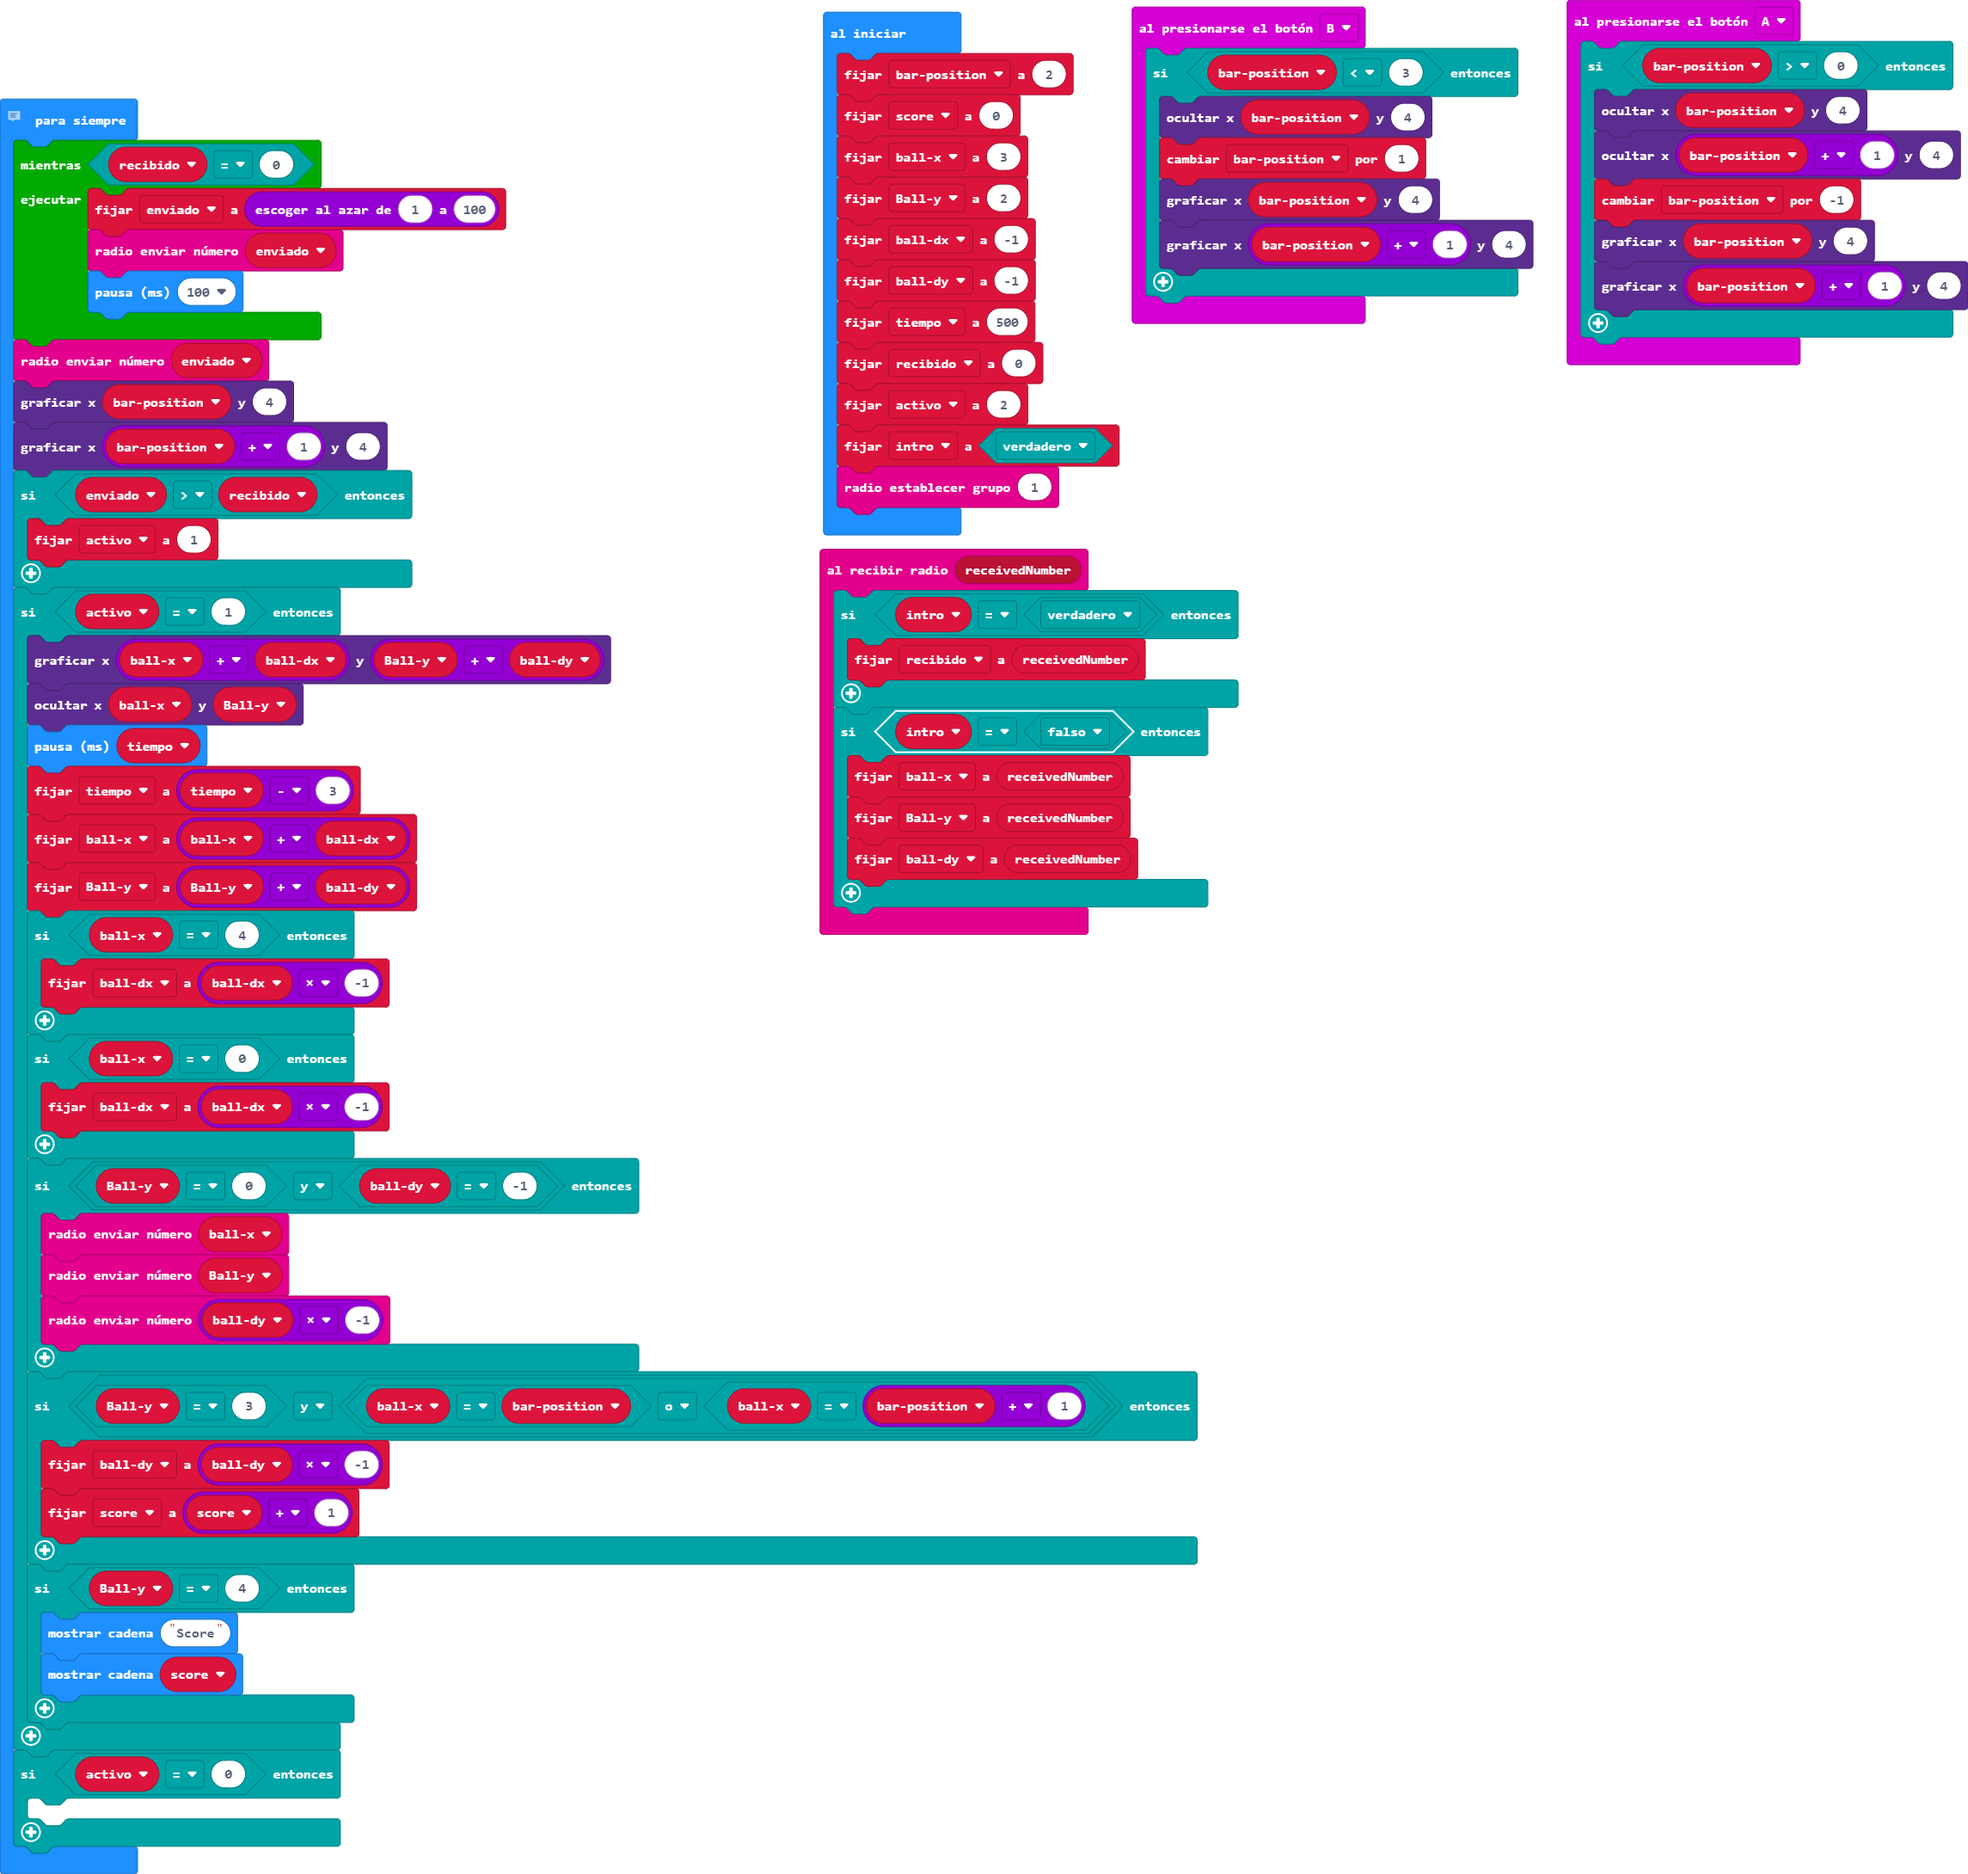
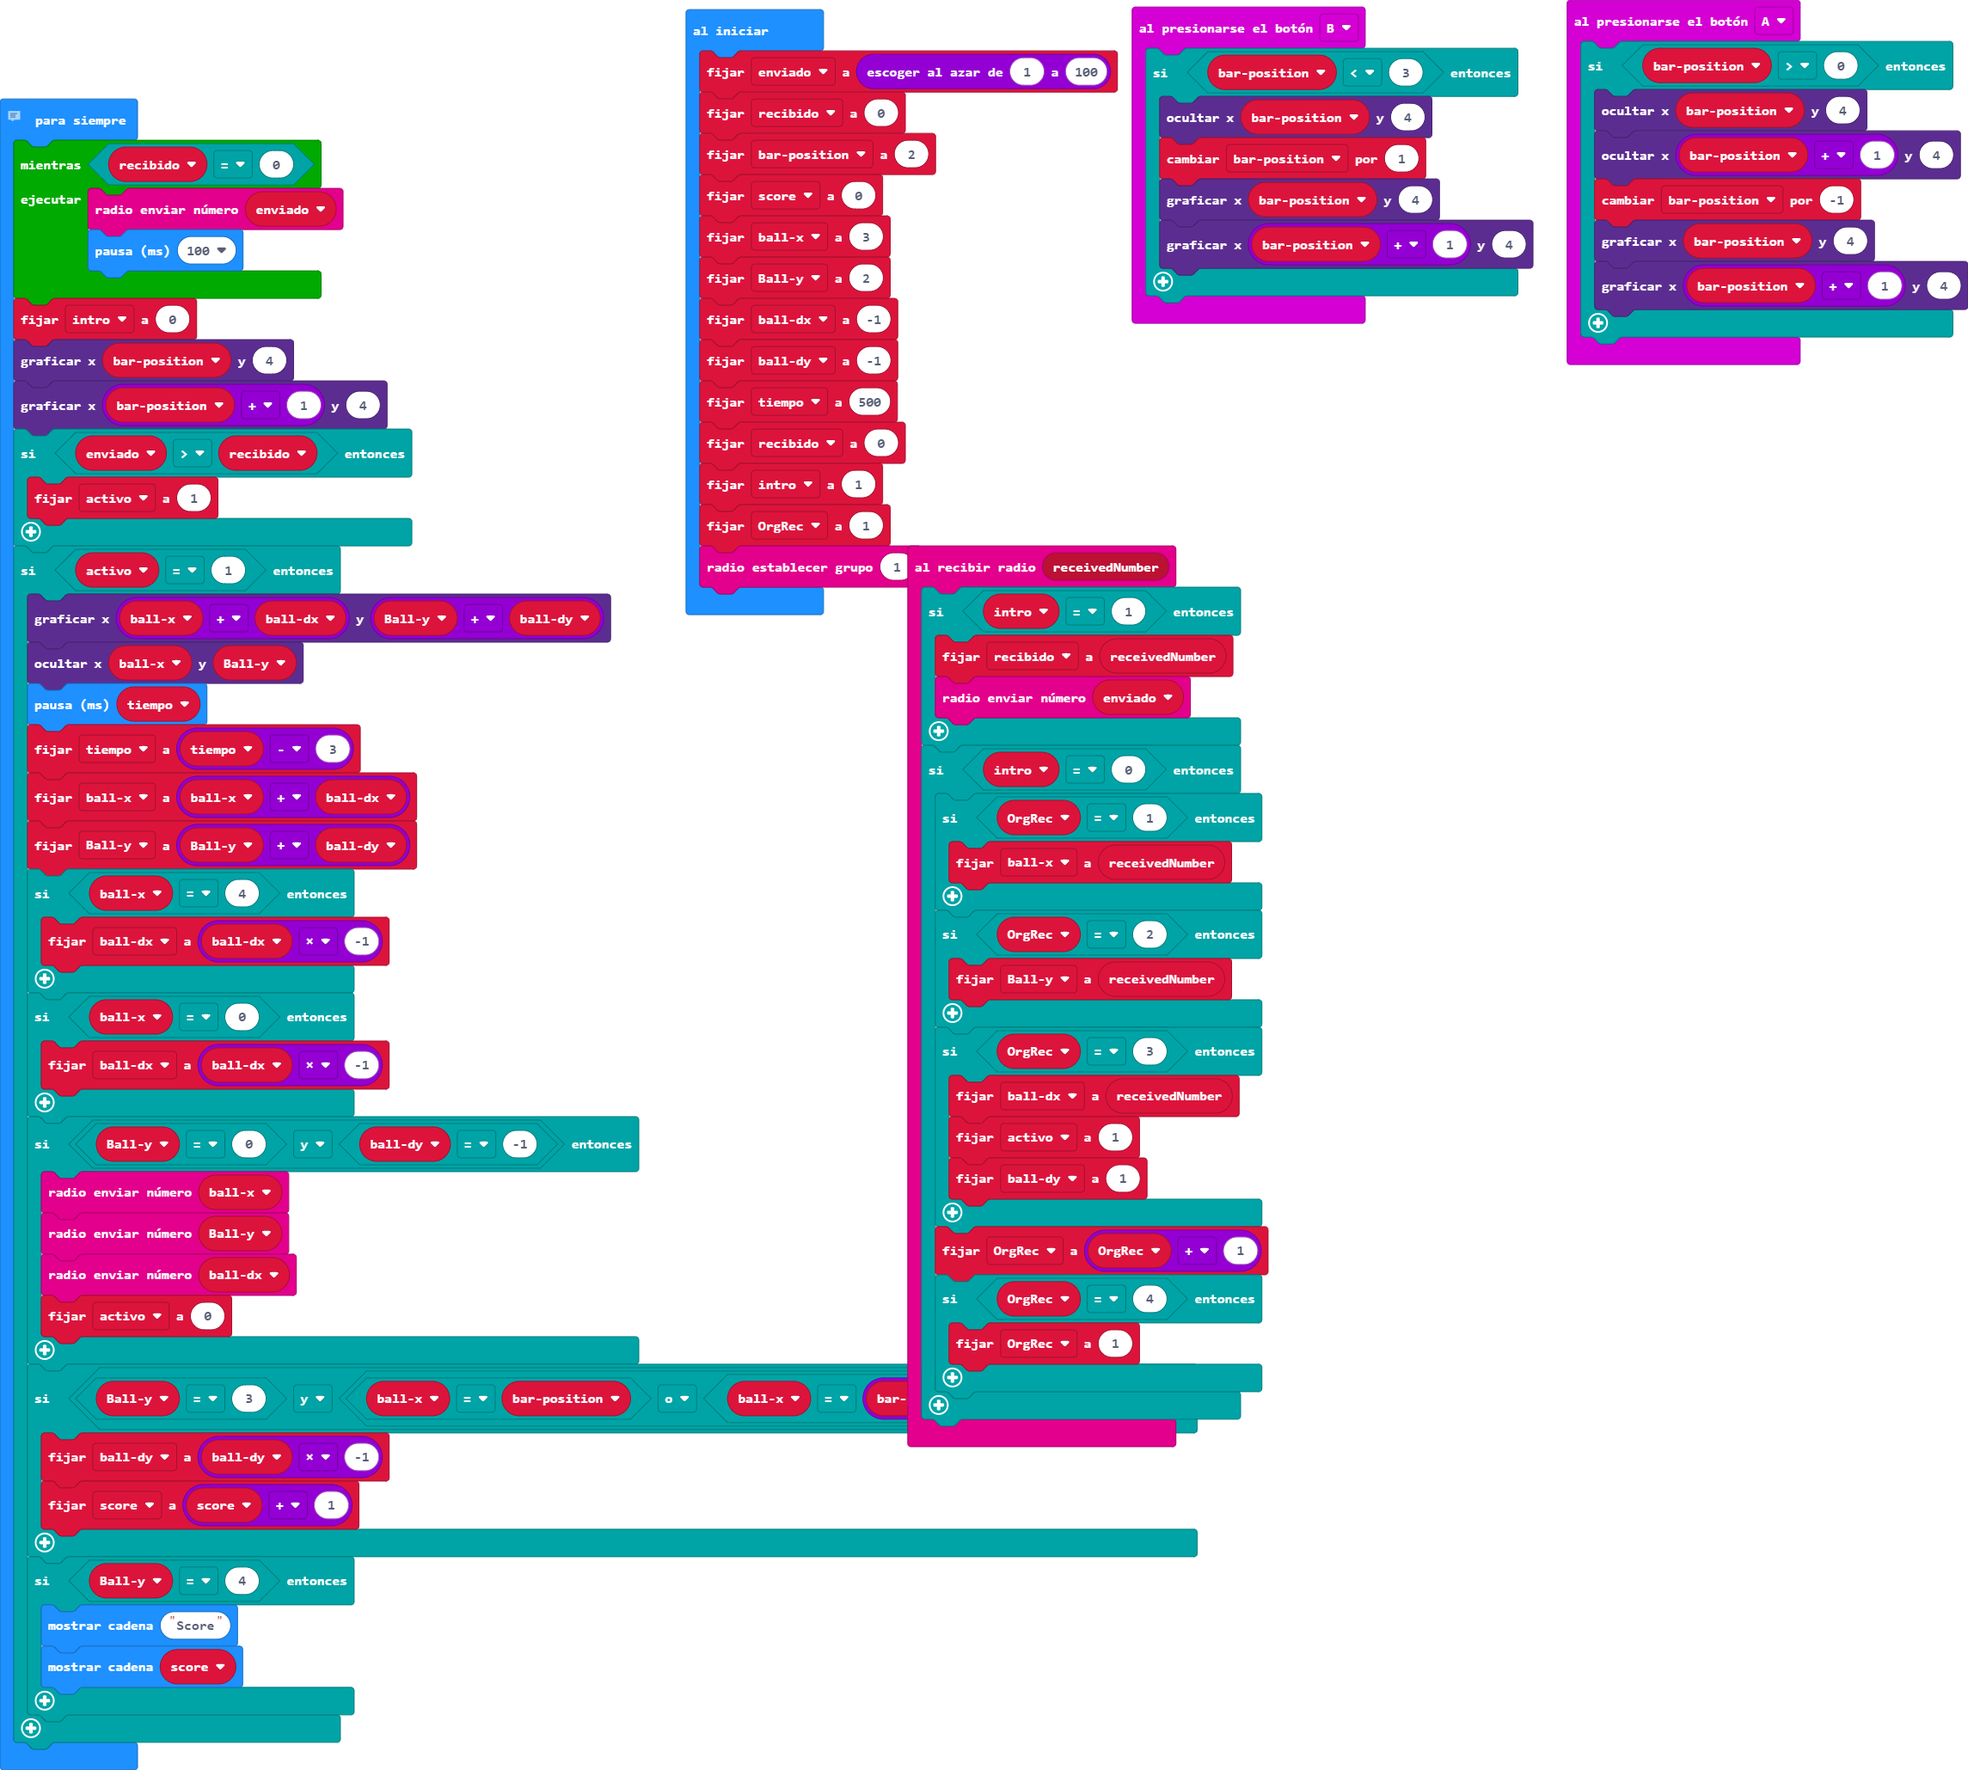
pre-alpha

diff --git a/main.ts b/main.ts
@@ -2,13 +2,26 @@ enum RadioMessage {
     message1 = 49434
 }
 radio.onReceivedNumber(function (receivedNumber) {
-    if (intro == true) {
+    if (intro == 1) {
         recibido = receivedNumber
+        radio.sendNumber(enviado)
     }
-    if (intro == false) {
-        ballx = receivedNumber
-        Bally = receivedNumber
-        balldy = receivedNumber
+    if (intro == 0) {
+        if (OrgRec == 1) {
+            ballx = receivedNumber
+        }
+        if (OrgRec == 2) {
+            Bally = receivedNumber
+        }
+        if (OrgRec == 3) {
+            balldx = receivedNumber
+            activo = 1
+            balldy = 1
+        }
+        OrgRec = OrgRec + 1
+        if (OrgRec == 4) {
+            OrgRec = 1
+        }
     }
 })
 input.onButtonPressed(Button.A, function () {
@@ -28,32 +41,36 @@ input.onButtonPressed(Button.B, function () {
         led.plot(barposition + 1, 4)
     }
 })
-let enviado = 0
-let intro = false
-let recibido = 0
+let activo = 0
+let OrgRec = 0
+let intro = 0
 let balldy = 0
+let balldx = 0
 let Bally = 0
 let ballx = 0
 let barposition = 0
+let recibido = 0
+let enviado = 0
+enviado = randint(1, 100)
+recibido = 0
 barposition = 2
 let score = 0
 ballx = 3
 Bally = 2
-let balldx = -1
+balldx = -1
 balldy = -1
 let tiempo = 500
 recibido = 0
-let activo = 2
-intro = true
+intro = 1
+OrgRec = 1
 radio.setGroup(1)
 // codigo de la barra
 basic.forever(function () {
     while (recibido == 0) {
-        enviado = randint(1, 100)
         radio.sendNumber(enviado)
         basic.pause(100)
     }
-    radio.sendNumber(enviado)
+    intro = 0
     led.plot(barposition, 4)
     led.plot(barposition + 1, 4)
     if (enviado > recibido) {
@@ -75,7 +92,8 @@ basic.forever(function () {
         if (Bally == 0 && balldy == -1) {
             radio.sendNumber(ballx)
             radio.sendNumber(Bally)
-            radio.sendNumber(balldy * -1)
+            radio.sendNumber(balldx)
+            activo = 0
         }
         if (Bally == 3 && (ballx == barposition || ballx == barposition + 1)) {
             balldy = balldy * -1
@@ -85,8 +103,5 @@ basic.forever(function () {
             basic.showString("Score")
             basic.showString("" + (score))
         }
-    }
-    if (activo == 0) {
-    	
     }
 })
